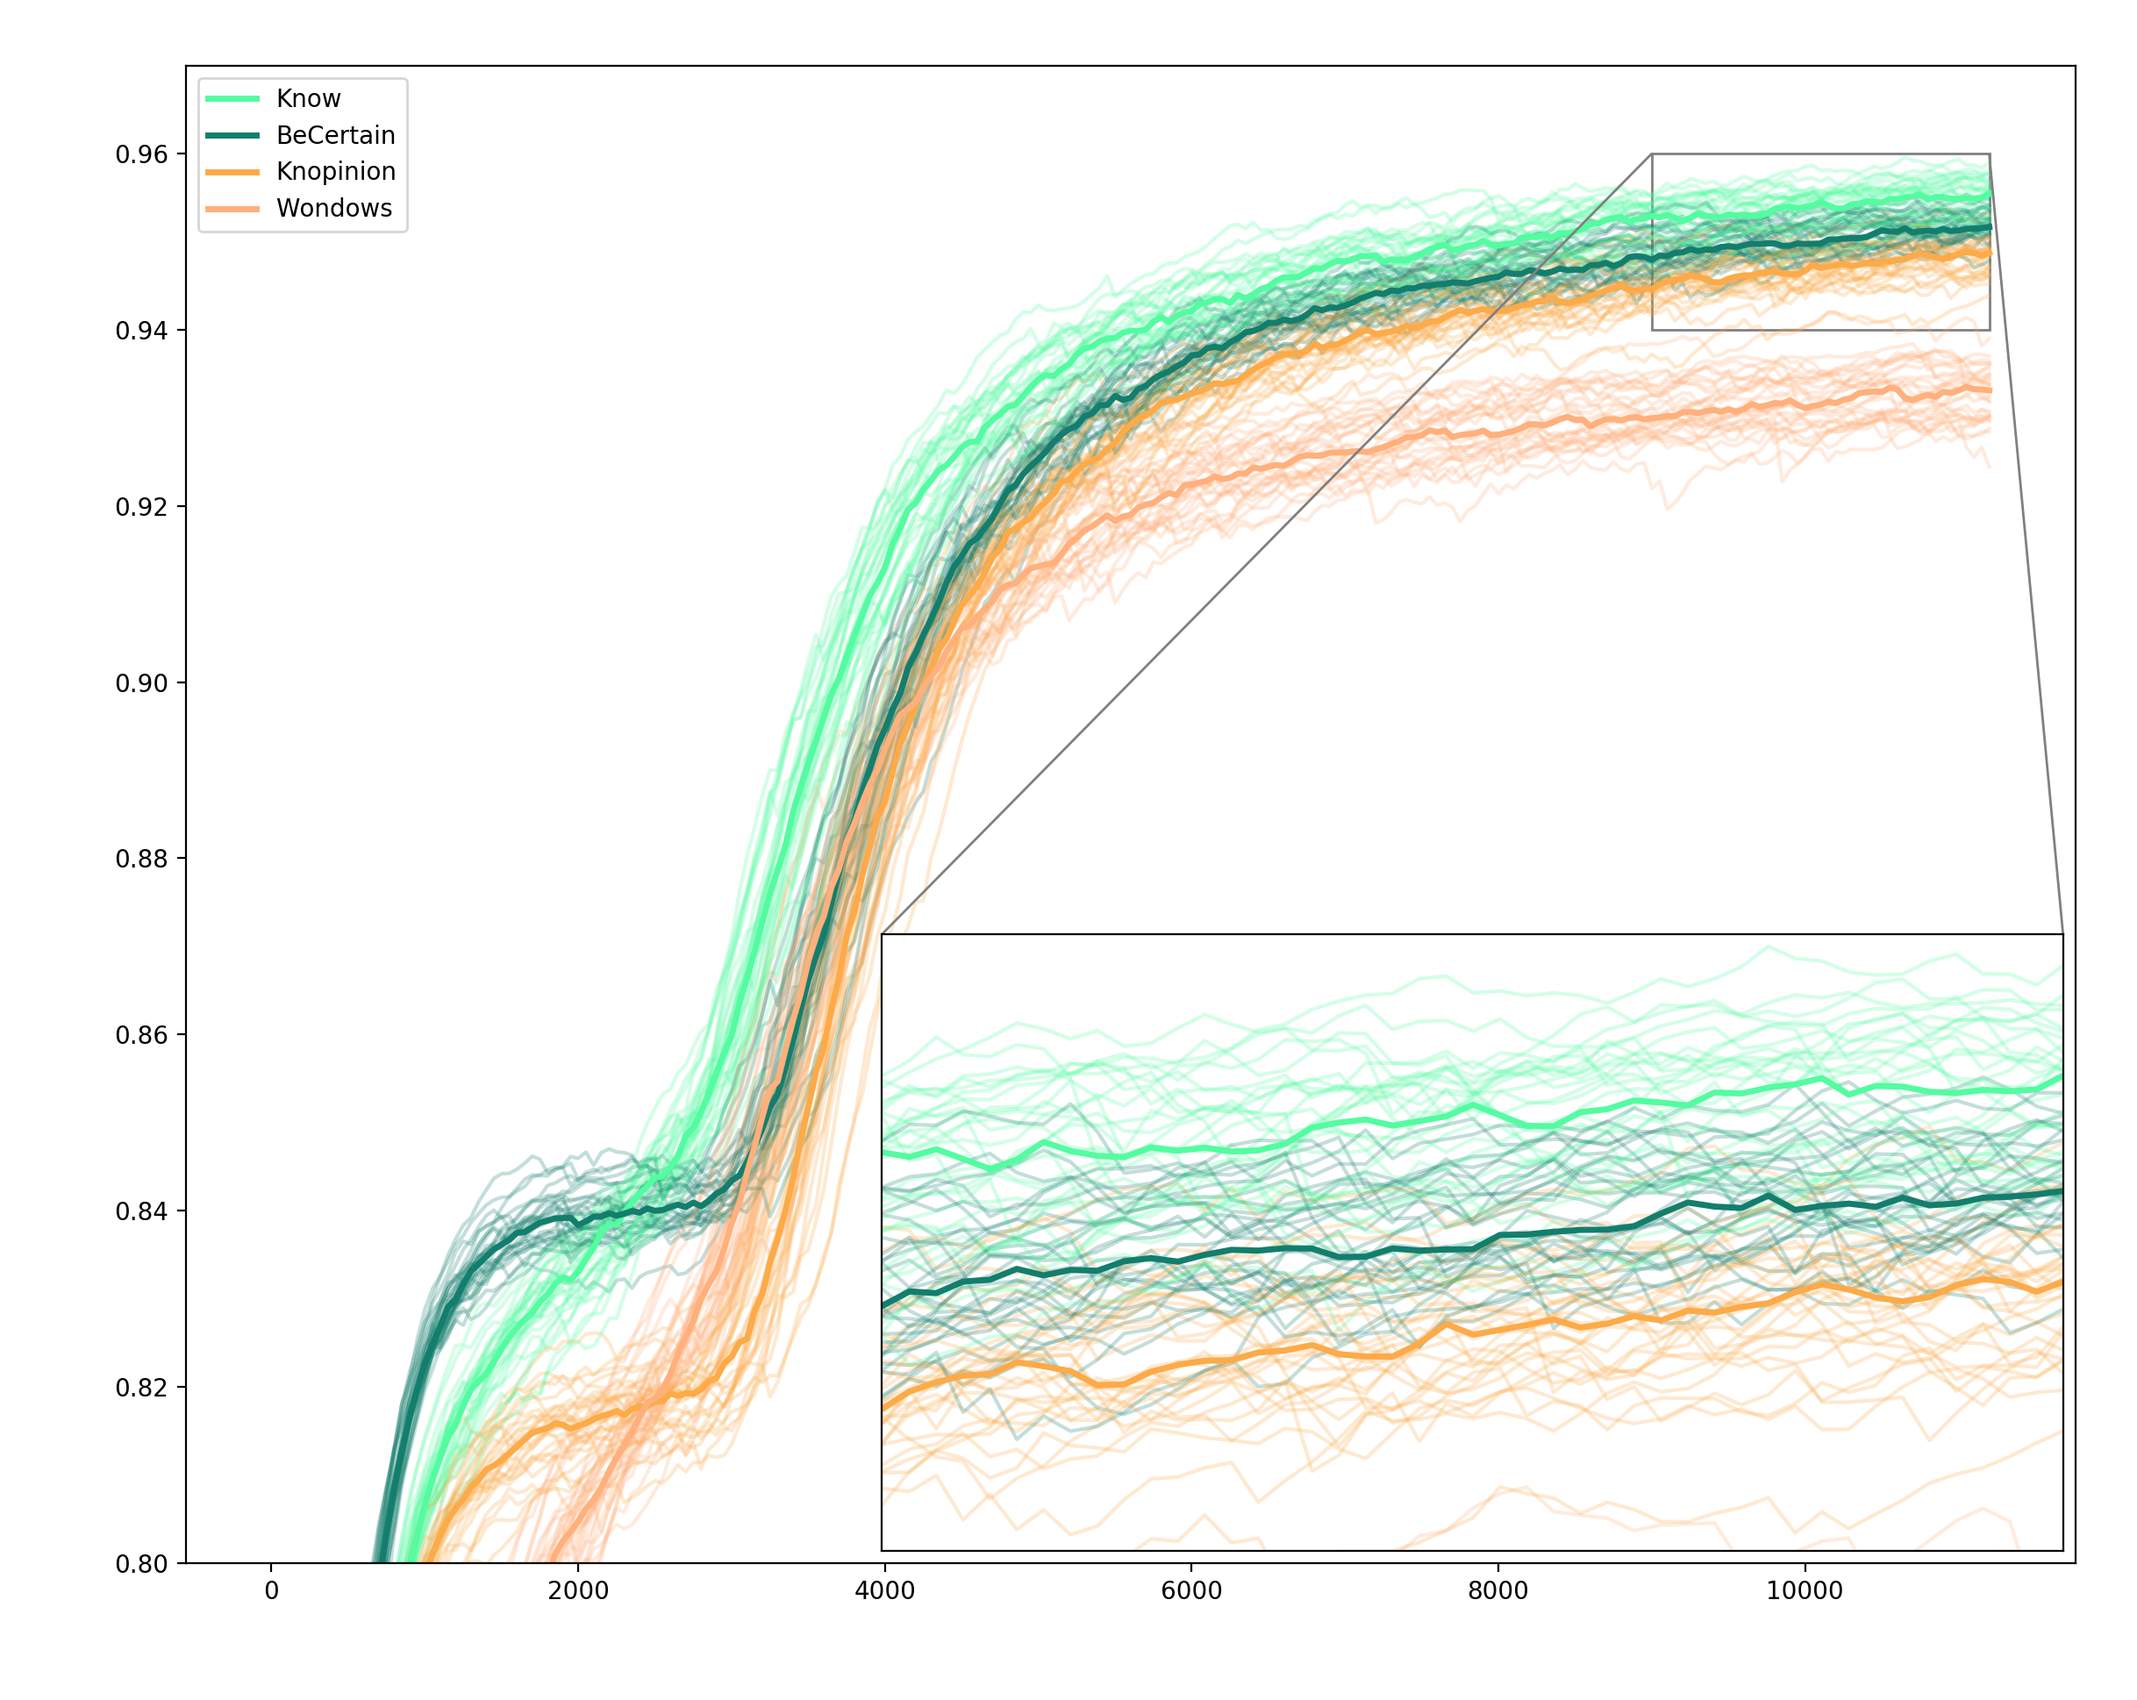
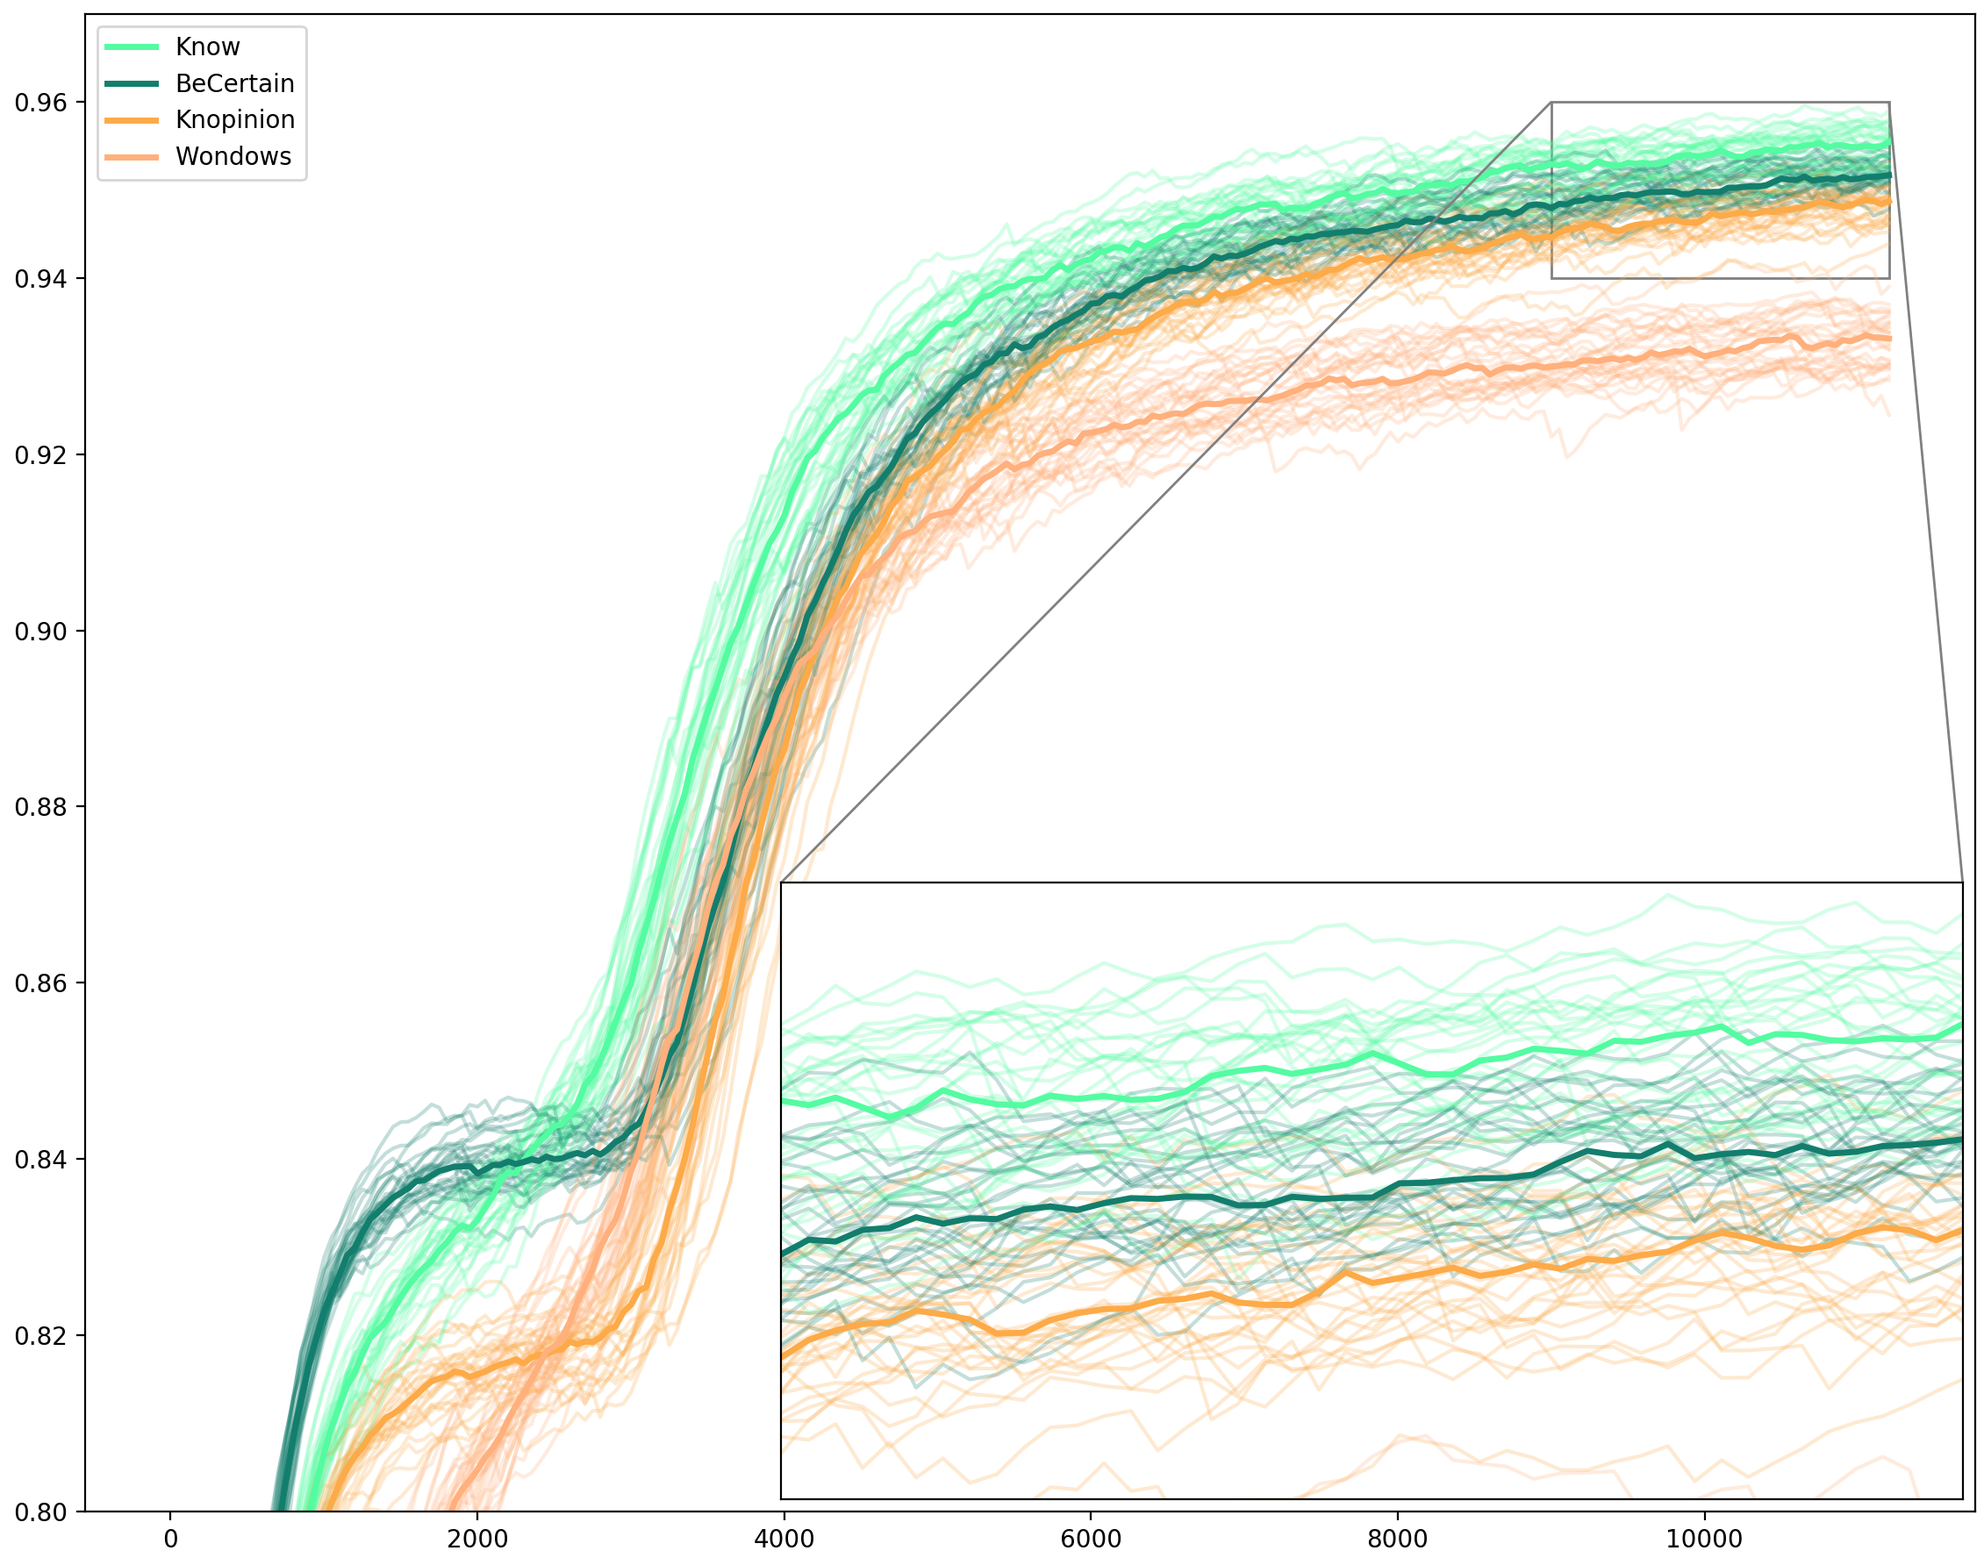
some updated analysis and settings

diff --git a/analysis.py b/analysis.py
@@ -18,15 +18,19 @@ from __future__ import division, print_function
 import itertools as it
 import numpy as np
 import scipy.stats as stats
+import matplotlib as mpl
+mpl.use('TkAgg')
 from matplotlib import pyplot as plt
 from mpl_toolkits.axes_grid1.inset_locator import zoomed_inset_axes
 from mpl_toolkits.axes_grid1.inset_locator import mark_inset
+import pandas as pd
+import seaborn as sns
 
 import util
 import verbs
 
 
-COLORS = ['xkcd:sea green', 'xkcd:blue green',
+COLORS = ['xkcd:forest green', 'xkcd:blue green',
           'xkcd:light orange', 'xkcd:peach']
 
 
@@ -38,7 +42,7 @@ def experiment_analysis(path, verbs, trials=range(30), plots=True):
         plots: whether to make plots or not
     """
 
-    threshold = 0.92
+    threshold = 0.93
     # read the data in
     data = util.read_trials_from_csv(path, trials)
     # FILTER OUT TRIALS WHERE RNN DID NOT LEARN
@@ -47,7 +51,7 @@ def experiment_analysis(path, verbs, trials=range(30), plots=True):
     convergence_points = get_convergence_points(data, verbs, threshold)
     # TODO: no convergence points for this experiment? just final?
     # TODO: mean over last N=20 training steps?
-    final_n = 50
+    final_n = 20
     final_points = {verb: [(sum(data[trial][verb.__name__ +
                                             '_accuracy'].values[-final_n:])
                             / final_n)
@@ -55,22 +59,66 @@ def experiment_analysis(path, verbs, trials=range(30), plots=True):
                     for verb in verbs}
 
     if plots:
+        """
+        # TODO: refactor this into its own method
+        reshaped = pd.DataFrame()
+        for trial in data:
+            for verb in verbs:
+                new_data = pd.DataFrame(
+                    {'steps': data[trial]['global_step'],
+                     'verb': verb.__name__,
+                     'accuracy': smooth_data(
+                         data[trial][verb.__name__ + '_accuracy'],
+                         smooth_weight=0.7),
+                     'trial': trial})
+                reshaped = reshaped.append(new_data)
+        sns.tsplot(reshaped, time='steps', value='accuracy',
+                   condition='verb', unit='trial', err_style='unit_traces',
+                   estimator=np.median)
+        plt.ylim((0.8, 0.96))
+        # plt.ylim((0.93, 0.96))
+        # plt.xlim((10000, 11200))
+        plt.show()
+        """
+
         # make plots
         make_boxplots(convergence_points, verbs)
         make_boxplots(final_points, verbs)
         # make_barplots(convergence_points, verbs)
-        make_plot(data, verbs, ylim=(0.8, 0.97), threshold=None,
-                  inset={'zoom': 3.5,
+        make_plot(data, verbs, ylim=(0.8, 0.96), threshold=None,
+                  inset={'zoom': 3.25,
                          'xlim': (9000, 11200),
-                         'ylim': (0.94, 0.96)})
+                         'ylim': (0.93, 0.9525)})
 
     pairs = list(it.combinations(verbs, 2))
+    final_data = {}
     for pair in pairs:
         print('{} vs. {}'.format(pair[0].__name__, pair[1].__name__))
         print(stats.ttest_rel(final_points[pair[0]],
                               final_points[pair[1]]))
         print(stats.ttest_rel(convergence_points[pair[0]],
                               convergence_points[pair[1]]))
+        pair_name = '{} - {}'.format(pair[0].__name__, pair[1].__name__)
+        final_data[pair_name] = (
+            np.array(final_points[pair[0]]) -
+            np.array(final_points[pair[1]]))
+
+    for pair in pairs:
+        pair_name = '{} - {}'.format(pair[0].__name__, pair[1].__name__)
+        if pair[0].__name__ == 'Know':
+            sns.distplot(final_data[pair_name], rug=True,
+                    label=pair_name)
+    plt.legend()
+    plt.show()
+    for pair in pairs:
+        pair_name = '{} - {}'.format(pair[0].__name__, pair[1].__name__)
+        if pair[0].__name__ == 'BeCertain':
+            sns.distplot(final_data[pair_name], rug=True,
+                    label=pair_name)
+    plt.legend()
+    plt.show()
+    sns.barplot(data=pd.DataFrame(final_data))
+    plt.show()
 
 
 def remove_bad_trials(data, threshold=0.95):
@@ -217,7 +265,7 @@ def make_plot(data, verbs, ylim=None, xlim=None, threshold=None, loc=2,
             trials_by_verb[idx].append(smooth_data(
                 data[trial][verbs[idx].__name__ + '_accuracy'].values))
             ax.plot(steps, trials_by_verb[idx][-1],
-                     COLORS[idx], alpha=0.25)
+                     COLORS[idx], alpha=0.2)
 
     # plot median lines
     medians_by_verb = [get_median_diff_lengths(trials_by_verb[idx])
@@ -229,7 +277,7 @@ def make_plot(data, verbs, ylim=None, xlim=None, threshold=None, loc=2,
                 medians_by_verb[idx],
                 COLORS[idx],
                 label=verbs[idx].__name__,
-                linewidth=2.5)
+                linewidth=2.75)
 
     if threshold:
         max_x = max([len(ls) for ls in medians_by_verb])
@@ -357,4 +405,5 @@ def smooth_data(data, smooth_weight=0.85):
 
 
 if __name__ == '__main__':
-    experiment_analysis('data/', verbs.get_all_verbs())
+    experiment_analysis('/tmp/BeCertainKnopinion/', verbs.get_all_verbs(),
+            plots=True)

diff --git a/run.py b/run.py
@@ -132,8 +132,8 @@ def main_experiment(write_dir='data/'):
 
     eparams = {'num_epochs': 15,
                'batch_size': 128,
-               'num_worlds': 20,
-               'max_cells': 5,
+               'num_worlds': 16,
+               'max_cells': 4,
                'items_per_bin': 16000,
                'tries_per_bin': 60000,
                'test_bin_size': 4000,
@@ -148,7 +148,7 @@ def main_experiment(write_dir='data/'):
                     'dropout': 0.1}]*4,
                'input_feature': 'x'}
 
-    for trial in xrange(30):
+    for trial in xrange(30, 45):
         run_trial(eparams, hparams, trial, write_dir)
 
 

diff --git a/models.py b/models.py
@@ -68,7 +68,7 @@ def basic_ffnn(features, labels, mode, params):
     # loss and training
     loss = tf.losses.sparse_softmax_cross_entropy(labels, logits)
     # TODO: parameterize optimizer?
-    optimizer = tf.train.AdamOptimizer()
+    optimizer = tf.train.RMSPropOptimizer(0.001)
     train_op = optimizer.minimize(loss, global_step=tf.train.get_global_step())
 
     # -- true_labels: [batch_size]
